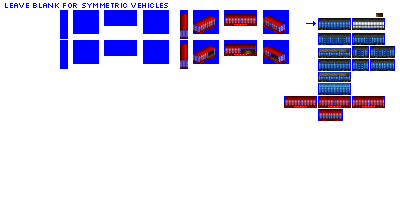
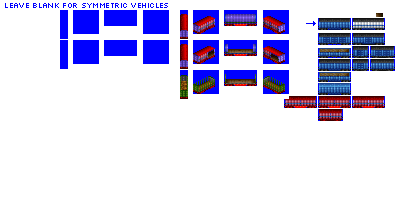
Change: WIP on gen 6C curtain side wagon sprites

Changed region(s): [[0.45, 0.33, 0.72, 0.51], [0.54, 0.21, 0.66, 0.27], [0.54, 0.06, 0.66, 0.12]]

diff --git a/src/gestalt_graphics/graphics_constants.py b/src/gestalt_graphics/graphics_constants.py
@@ -55,6 +55,9 @@ cryo_tank_car_livery_recolour_maps = (("DFLT", {136: 5, 137: 7, 138: 9, 139: 11,
                                       ("CHLO", {136: 154, 137: 155, 138: 157, 139: 158,
                                                 140: 159, 141: 159, 142: 160, 143: 161}),)
 
+curtain_side_livery_recolour_maps = (("DFLT", {136: CC1, 137: CC1+1, 138: CC1+2, 139: CC1+3,
+                                               140: CC1+4, 141: CC1+5, 142: CC1+6, 143: CC1+7}),)
+
 edibles_tank_car_livery_recolour_maps = (("DFLT", {}),)
 
 fruit_veg_livery_recolour_maps = (("DFLT", {136: CC2, 137: CC2+1, 138: CC2+2, 139: CC2+3,

diff --git a/src/train.py b/src/train.py
@@ -971,9 +971,8 @@ class CurtainSideCarConsist(CarConsist):
         # allow flipping, used to flip company colour
         self.allow_flip = True
         # Graphics configuration
-        self.roof_type = 'freight'
         self.gestalt_graphics = GestaltGraphicsBoxCarOpeningDoors(id_base='curtain_side_car',
-                                                                  recolour_maps=graphics_constants.box_livery_recolour_maps)
+                                                                  recolour_maps=graphics_constants.curtain_side_livery_recolour_maps)
 
 
 class DumpCarConsist(CarConsist):
